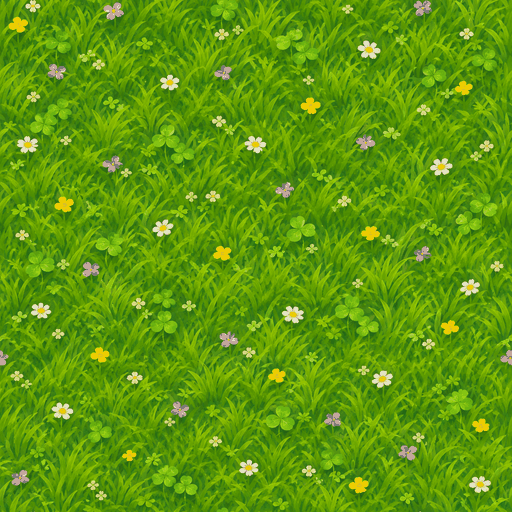
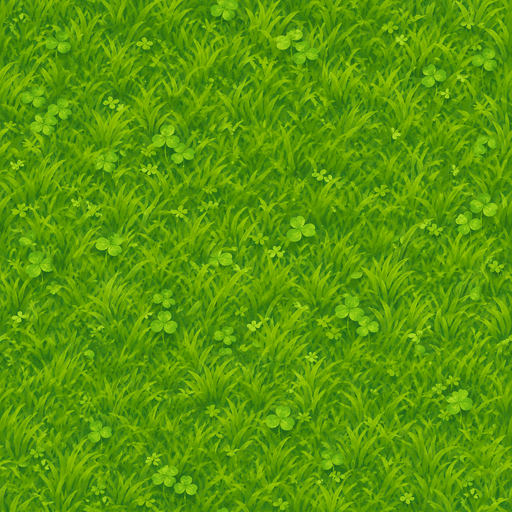
0.18.0: живая земля — проплешины, тропинки, пятна травы, цветы кучками, пашни с забором; тени картинок у основания
Claude-Session: https://claude.ai/code/session_01U2ApNPNzUjRVpvnMrknfAx

diff --git a/src/main.ts b/src/main.ts
@@ -11,8 +11,9 @@ import { settings, openMenu, closeMenu, openOver } from "./menu";
 import { startRun } from "./scores";
 import { STORY_W, STORY_H, GATES, CAMPS, START, EXIT_Y, GROUPS, WEAPON_CRATES, CH, CHAPTERS, SEGS, LANE, TUNNEL_Y, setChapter, loadStory, saveStory, loadHero, saveHero, type StorySave } from "./story";
 import { makeSliceProps, SLICE_INFO } from "./propVox";
-import { loadGroundFiles, makeGround, HAS_GRASS } from "./groundArt";
+import { loadGroundFiles, makeGround, makeGroundPatches, HAS_GRASS } from "./groundArt";
 import { loadArtFiles, objArt, HOUSE_NAMES, ART_K, OBJ_K, BUILD_NAMES, buildK } from "./artFiles";
+const BUILD_K_SMALL = (n: string) => buildK(n) !== ART_K;
 import { HUD_ART, HUD_FILE, loadHudFiles, makeHudArt, type HudArt } from "./hudArt";
 import { PROP_ART, loadPropFiles, makePropArt, type PropArt } from "./propArt";
 import { buildHouse, hull, inHouse, wDist, wLocal, wWorld, type House, type WallBox } from "./house";
@@ -24,8 +25,11 @@ let W = 3000, H = 3000; // размер мира, px (в сюжете — дли
 /** в сюжете не ставим деревья и камни на заслоны, в лагеря и у ящиков с оружием */
 /** туннель: скала по бокам прохода (внутрь не ставим ничего) */
 const inRock = (x: number, y: number, r = 0) => !!LANE && y < TUNNEL_Y + r && (x < LANE[0] + r || x > LANE[1] - r);
+/** пашни фермы: на них ничего не ставим (вокруг — заборчик) */
+let FIELDS: { x: number; y: number; w: number; h: number }[] = [];
+const inField = (x: number, y: number, r: number) => FIELDS.some((f) => x > f.x - r - 34 && x < f.x + f.w + r + 34 && y > f.y - r - 40 && y < f.y + f.h + r + 30);
 function storyFree(x: number, y: number, r: number) {
-  if (inRock(x, y, r + 10)) return false;
+  if (inRock(x, y, r + 10) || inField(x, y, r)) return false;
   if (GATES.some((g) => Math.abs(y - g) < r + 70)) return false;
   if (CAMPS.some((c) => Math.hypot(x - c.x, y - c.y) < r + 170)) return false;
   if (WEAPON_CRATES.some((c) => Math.hypot(x - c.x, y - c.y) < r + 90)) return false;
@@ -569,6 +573,7 @@ class Game extends Phaser.Scene {
   walls: WallBox[] = [];
   /** тени нарисованных построек и машин: картинка и сплющенность силуэта */
   artSh: [Phaser.GameObjects.Image, number][] = [];
+  yards: { x: number; y: number; w: number; h: number; path: boolean }[] = [];
   bullets: Bullet[] = [];
   bg!: Phaser.GameObjects.Graphics;
   aimG!: Phaser.GameObjects.Graphics;
@@ -644,6 +649,7 @@ class Game extends Phaser.Scene {
     makePropArt(this);
     SV = makeSliceProps(this);
     makeGround(this);
+    makeGroundPatches(this);
     this.enemies = []; this.obs = []; this.artSh = []; this.bullets = []; this.gibs = []; this.splats = []; this.spawnQ = []; this.waveT = 1.5; this.px = W / 2; this.py = H / 2;
     makeStack(this, "hero_body", PAL_HERO, "body");
     makeStack(this, "hero_head", PAL_HERO, "head");
@@ -1208,6 +1214,7 @@ class Game extends Phaser.Scene {
     /** доли: дерево / камень / сухое дерево */
     const MIX: Record<string, [number, number]> = { waste: [0.2, 0.75], junk: [0.15, 0.4], tunnel: [0.5, 0.9], farm: [0.45, 0.85], road: [0.4, 0.8], town: [0.25, 0.55], factory: [0.15, 0.7], dam: [0.35, 0.9] };
     const rnd = new Phaser.Math.RandomDataGenerator(["zombika"]);
+    FIELDS = [];
     if (S.story) this.themeGround(th, rnd);
     // полуразрушенный дом недалеко от старта
     const st = S.story ? START : { x: W / 2, y: H / 2 };
@@ -1217,6 +1224,8 @@ class Game extends Phaser.Scene {
     const free = (x: number, y: number, r: number) =>
       Math.hypot(x - st.x, y - st.y) > 220 && (!S.story || storyFree(x, y, r)) && this.obs.every((o) => Math.hypot(o.x - x, o.y - y) > o.r + r + 40) &&
       !(x > hs.bx0 - r - 40 && x < hs.bx1 + r + 40 && y > hs.by0 - r - 50 && y < hs.by1 + r + 30);
+    /** дворы: дома, постройки, костры — под ними проплешина земли, к ним ведут тропинки */
+    const yards = this.yards = [{ x: hs.cx, y: hs.by1 + 10, w: hs.bx1 - hs.bx0 + 60, h: 90, path: true as boolean }];
     const place = (key: string, x: number, y: number, size: number, r: number, canopy: number) => {
       const img = this.add.image(x, y, key).setDisplaySize(size, size).setDepth(y);
       // дерево нарисовано «вид сверху-сбоку»: ставим картинку основанием ствола в точку (x, y)
@@ -1235,6 +1244,7 @@ class Game extends Phaser.Scene {
         if (!free(x, y, Math.max(w, h) * 0.45)) continue;
         const im = this.add.image(x, y + h * 0.25, "hs_" + name).setDisplaySize(w, h).setOrigin(0.5, 0.85).setDepth(y + h * 0.15);
         this.artSh.push([im, 0.55]);
+        yards.push({ x, y: y + h * 0.12, w: w * 1.05, h: h * 0.6, path: true });
         const p: Prop = { id: 5000 + n, kind: "deco", x, y, hp: 999, img: im, dead: false }; this.props.push(p);
         p.wall = { cx: x, cy: y, ex: w * 0.34, ey: h * 0.26, c: 1, s: 0, h: 40, art: true, pts: [[-1, -1], [1, -1], [1, 1], [-1, 1]].map(([u, v]) => ({ x: x + u * w * 0.34, y: y + v * h * 0.26 })) };
         this.walls.push(p.wall);
@@ -1268,6 +1278,7 @@ class Game extends Phaser.Scene {
         const im = this.add.image(x, y, "bd_" + name).setDisplaySize(w, h).setFlipX(flip);
         const p: Prop = { id: 6000 + n, kind: "deco", x, y, hp: 999, img: im, dead: false }; this.props.push(p);
         if (flat) { im.setDepth(-9); n++; continue; }
+        yards.push({ x, y: y + h * (tall ? 0.02 : 0.12), w: w * (tall ? 1.6 : 1.05), h: h * (tall ? 0.35 : 0.6), path: !BUILD_K_SMALL(name) });
         if (tall) {
           // высокое (труба, вышка, бак): основание — внизу картинки, препятствие — кружок
           im.setOrigin(0.5, 0.9).setDepth(y);
@@ -1315,6 +1326,97 @@ class Game extends Phaser.Scene {
   }
 
   /** земля главы поверх травы: дорога, площадь, цех, плотина, поля */
+  /** пашня с неровным краем: узор t_farm внутри извилистого контура, по краю — бровка и травинки */
+  fieldImage(i: number, x: number, y: number, w: number, h: number, rnd: Phaser.Math.RandomDataGenerator) {
+    const m = 16, key = "field_" + i;
+    if (this.textures.exists(key)) this.textures.remove(key);
+    const cv = document.createElement("canvas"); cv.width = w + m * 2; cv.height = h + m * 2;
+    const c = cv.getContext("2d")!;
+    // контур: точки по скруглённому прямоугольнику, сдвинутые наружу/внутрь плавным шумом
+    const pts: [number, number][] = [], n = Math.round((w + h) / 9), rr = Math.min(w, h) * 0.22, ph = [rnd.realInRange(0, 9), rnd.realInRange(0, 9)];
+    for (let k = 0; k < n; k++) {
+      const t = (k / n) * 2 * (w + h);
+      let px: number, py: number, nx: number, ny: number;
+      if (t < w) { px = t; py = 0; nx = 0; ny = -1; } else if (t < w + h) { px = w; py = t - w; nx = 1; ny = 0; } else if (t < 2 * w + h) { px = 2 * w + h - t; py = h; nx = 0; ny = 1; } else { px = 0; py = 2 * (w + h) - t; nx = -1; ny = 0; }
+      // скругление углов: подтягиваем к центру скругления
+      const cxr = Math.min(Math.max(px, rr), w - rr), cyr = Math.min(Math.max(py, rr), h - rr), dx = px - cxr, dy = py - cyr, d = Math.hypot(dx, dy);
+      if (d > rr) { px = cxr + (dx / d) * rr; py = cyr + (dy / d) * rr; }
+      const wob = Math.sin(t * 0.021 + ph[0]) * 7 + Math.sin(t * 0.067 + ph[1]) * 3.5 + rnd.realInRange(-1.5, 1.5);
+      pts.push([m + px + nx * wob, m + py + ny * wob]);
+    }
+    const path = () => { c.beginPath(); pts.forEach(([a, b], k) => (k ? c.lineTo(a, b) : c.moveTo(a, b))); c.closePath(); };
+    const src = this.textures.get("t_farm").getSourceImage() as CanvasImageSource & { width: number };
+    const pat = c.createPattern(src, "repeat")!;
+    const sc = 0.45 * (512 / Math.max(256, src.width as number)) * (src.width as number >= 512 ? 1 : 2);
+    pat.setTransform(new DOMMatrix().scale(sc));
+    path(); c.fillStyle = pat; c.fill();
+    // бровка: тёмная полоса по краю внутри
+    c.save(); path(); c.clip(); c.lineWidth = 10; c.strokeStyle = "rgba(60,40,20,0.35)"; path(); c.stroke(); c.restore();
+    // травинки, налезающие на край
+    c.strokeStyle = "rgba(70,120,30,0.85)"; c.lineWidth = 1.5;
+    for (let k = 0; k < pts.length; k += 1) for (let j = 0; j < 2; j++) {
+      const [a, b] = pts[k], ox = rnd.realInRange(-4, 4), oy = rnd.realInRange(-4, 4);
+      c.beginPath(); c.moveTo(a + ox, b + oy); c.lineTo(a + ox + rnd.realInRange(-3, 3), b + oy - rnd.realInRange(4, 9)); c.stroke();
+    }
+    this.textures.addCanvas(key, cv);
+    this.add.image(x - m, y - m, key).setOrigin(0).setDepth(-9.6);
+  }
+  /** живая земля: проплешины под дворами, кривые тропинки, пятна тёмной/сухой травы, цветы кучками */
+  groundPatches(th: string, yards: { x: number; y: number; w: number; h: number; path: boolean }[], rnd: Phaser.Math.RandomDataGenerator) {
+    if (th === "tunnel") return;
+    const tint = S.story ? CHAPTERS[CH].tint : 0xffffff;
+    const blob = (key: string, x: number, y: number, w: number, h: number, depth = -9.9) =>
+      this.add.image(x, y, key).setDisplaySize(w, h).setRotation(rnd.realInRange(-0.3, 0.3)).setFlipX(rnd.frac() < 0.5).setDepth(depth).setTint(tint);
+    // под домами и кострами — вытоптанная земля
+    for (const y of yards) blob("gp_dirt" + rnd.between(0, 3), y.x + rnd.between(-8, 8), y.y, y.w * 1.3, y.h * 1.5);
+    // тропинки: плавная кривая (Безье со смещёнными в стороны опорами), три слоя — тень края, земля, светлая середина
+    const g = this.add.graphics().setDepth(-9.85);
+    const trail = (pts: { x: number; y: number }[], wid: number) => {
+      for (const [k, col, a] of [[1.5, 0x4a3a20, 0.16], [1.0, 0x7a5e3a, 0.6], [0.5, 0x9c7e54, 0.45]] as const) {
+        g.lineStyle(wid * k, col, a).strokePoints(pts, false);
+      }
+      // камешки по тропе
+      g.fillStyle(0x9a9284, 0.8);
+      for (let i = 0; i < pts.length; i += 3) if (rnd.frac() < 0.5) g.fillEllipse(pts[i].x + rnd.between(-wid / 3, wid / 3), pts[i].y + rnd.between(-wid / 3, wid / 3), rnd.between(2, 5), rnd.between(2, 4));
+    };
+    const curve = (ax: number, ay: number, bx: number, by: number) => {
+      const dx = bx - ax, dy = by - ay, L = Math.hypot(dx, dy), nx = -dy / L, ny = dx / L;
+      const o1 = rnd.realInRange(-0.35, 0.35) * L, o2 = rnd.realInRange(-0.35, 0.35) * L;
+      const c1 = { x: ax + dx * 0.33 + nx * o1, y: ay + dy * 0.33 + ny * o1 }, c2 = { x: ax + dx * 0.66 + nx * o2, y: ay + dy * 0.66 + ny * o2 };
+      const n = Math.max(6, Math.round(L / 14)), pts: { x: number; y: number }[] = [];
+      for (let i = 0; i <= n; i++) {
+        const t = i / n, u = 1 - t;
+        pts.push({ x: u * u * u * ax + 3 * u * u * t * c1.x + 3 * u * t * t * c2.x + t * t * t * bx, y: u * u * u * ay + 3 * u * u * t * c1.y + 3 * u * t * t * c2.y + t * t * t * by });
+      }
+      return pts;
+    };
+    const doors = yards.filter((y) => y.path).map((y) => ({ x: y.x, y: y.y + y.h * 0.45 }));
+    if (S.story) {
+      // главная тропа вдоль полосы (на шоссе и в городе её закрывает асфальт)
+      const ph = rnd.realInRange(0, 9), main: { x: number; y: number }[] = [];
+      const mx = (y: number) => W / 2 + Math.sin(y * 0.0021 + ph) * 110 + Math.sin(y * 0.0061 + ph * 2) * 45;
+      for (let y = H; y >= 0; y -= 24) main.push({ x: mx(y), y });
+      trail(main, 44);
+      for (const d of doors) { const ty = d.y + rnd.between(60, 220); trail(curve(d.x, d.y, mx(ty), ty), 24); }
+    } else {
+      // «волны»: каждый двор — к ближайшему соседу, без повторов
+      const done = new Set<string>();
+      doors.forEach((d, i) => {
+        let best = -1, bd = 1e9;
+        doors.forEach((e, j) => { const q = Math.hypot(e.x - d.x, e.y - d.y); if (j !== i && q < bd) { bd = q; best = j; } });
+        const key = [i, best].sort().join();
+        if (best >= 0 && !done.has(key) && bd < 1400) { done.add(key); trail(curve(d.x, d.y, doors[best].x, doors[best].y), 26); }
+      });
+    }
+    // пятна по всей карте: голая земля, тёмная и сухая трава, цветы кучками (не на пашнях)
+    const area = (W * H) / 250000;
+    const spots: [string, number, number, number][] = [["gp_dirt", 4, 0.22, 140], ["gp_dark", 2, 0.4, 260], ["gp_dry", 2, 0.35, 240], ["gp_flow", 3, 0.5, 110]];
+    for (const [key, nv, k, sz] of spots) for (let i = 0; i < Math.round(area * k); i++) {
+      const x = rnd.between(60, W - 60), y = rnd.between(60, H - 60), s = sz * rnd.realInRange(0.6, 1.5);
+      if (inField(x, y, s * 0.4)) continue;
+      blob(key + rnd.between(0, nv - 1), x, y, s, s * rnd.realInRange(0.6, 0.9), key === "gp_flow" ? -9.5 : -9.9);
+    }
+  }
   themeGround(th: string, rnd: Phaser.Math.RandomDataGenerator) {
     const band = (key: string, x: number, w: number, y = 0, h = H, sc = 0.5) => this.add.tileSprite(x, y, w, h, key).setOrigin(0).setTileScale(sc).setDepth(-9.6);
     const g = this.add.graphics().setDepth(-9.5);
@@ -1323,8 +1425,8 @@ class Game extends Phaser.Scene {
       // поля по сторонам от тропы
       for (let y = 500; y < H - 700; y += rnd.between(500, 800)) {
         const left = rnd.frac() < 0.5, w = rnd.between(280, 420), h = rnd.between(220, 360), x = left ? rnd.between(200, 330) : W - rnd.between(200, 330) - w;
-        band("t_farm", x, w, y, h, 0.45);
-        g.lineStyle(3, 0x5a4024, 0.5).strokeRect(x, y, w, h);
+        FIELDS.push({ x, y, w, h });
+        this.fieldImage(FIELDS.length - 1, x, y, w, h, rnd);
       }
     } else if (th === "road") {
       band("t_asphalt", cx - 270, 540);
@@ -1475,6 +1577,7 @@ class Game extends Phaser.Scene {
       ob(p, 14, { low: true });
       p.light = { dx: 0, dy: -4, r: 210, col: 0xff8a30, a: 0.75, flick: 0.25, night: false };
       p.fire = this.flames(x, y - 6, 1);
+      this.yards.push({ x, y: y + 4, w: 130, h: 100, path: false });
       for (let i = 0; i < 3; i++) { const a = (i / 3) * TAU + 0.5; const lx = x + Math.cos(a) * 44, ly = y + Math.sin(a) * 30; if (free(lx, ly, 10)) { const lp = add("fence", lx, ly, 99, this.add.image(lx, ly, "prop_fence").setDisplaySize(40, 12).setRotation(a + Math.PI / 2).setDepth(-4)); void lp; } }
     };
     for (let n = 0, tries = 0; n < 4 && tries < 300; tries++) {
@@ -1482,6 +1585,7 @@ class Game extends Phaser.Scene {
       if (!free(x, y, 60)) continue;
       fire(x, y); n++;
     }
+    this.groundPatches(S.story ? CHAPTERS[CH].theme : "farm", this.yards, rnd);
     // фонарные столбы: у дома и вдоль старой дороги через карту
     const lamp = (x: number, y: number, broken: boolean) => {
       const p = add("lamp", x, y, 99, img("lamp", x, y, 0.95));
@@ -1515,6 +1619,34 @@ class Game extends Phaser.Scene {
         this.walls.push(p.wall);
       }
       n++;
+    }
+    // заборчик вокруг пашен: пролёты по краю, пара дыр-проходов
+    for (const f of FIELDS) {
+      const seg = (fx: number, fy: number, a: number) => {
+        const im = this.add.image(fx, fy, "prop_fence").setDisplaySize(64, 20).setRotation(a).setOrigin(0.5, 0.6).setDepth(fy);
+        const p = add("fence", fx, fy, 99, im);
+        p.wall = box(fx, fy, 30, 3, a, 12); this.walls.push(p.wall);
+      };
+      const x0 = f.x - 14, x1 = f.x + f.w + 14, y0 = f.y - 16, y1 = f.y + f.h + 12;
+      const nx = Math.max(2, Math.round((x1 - x0) / 62)), ny = Math.max(2, Math.round((y1 - y0) / 62));
+      const gaps = new Set([rnd.between(0, 2 * (nx + ny) - 1), rnd.between(0, 2 * (nx + ny) - 1)]);
+      let k = 0;
+      for (let i = 0; i < nx; i++, k++) if (!gaps.has(k)) seg(x0 + (i + 0.5) * (x1 - x0) / nx, y0, 0);
+      for (let i = 0; i < nx; i++, k++) if (!gaps.has(k)) seg(x0 + (i + 0.5) * (x1 - x0) / nx, y1, 0);
+      for (let i = 0; i < ny; i++, k++) if (!gaps.has(k)) seg(x0, y0 + (i + 0.5) * (y1 - y0) / ny, Math.PI / 2);
+      for (let i = 0; i < ny; i++, k++) if (!gaps.has(k)) seg(x1, y0 + (i + 0.5) * (y1 - y0) / ny, Math.PI / 2);
+      // пугало посреди пашни (иногда два) и часто — брошенный трактор
+      const hasTr = BUILD_NAMES.has("tractor") && rnd.frac() < 0.65;
+      const sx = hasTr ? (rnd.frac() < 0.5 ? 0.25 : 0.75) : rnd.realInRange(0.3, 0.7);
+      for (let i = 0, ns = rnd.frac() < 0.3 ? 2 : 1; i < ns; i++) deco("scarecrow", f.x + f.w * (i ? 1 - sx : sx), f.y + f.h * rnd.realInRange(0.35, 0.75), 0);
+      if (hasTr) {
+        const tex = this.textures.get("bd_tractor").getSourceImage(), k = buildK("tractor"), w = tex.width / k, h = tex.height / k;
+        const tx = f.x + f.w * (1 - sx), ty = f.y + f.h * rnd.realInRange(0.4, 0.6);
+        const im = this.add.image(tx, ty, "bd_tractor").setDisplaySize(w, h).setFlipX(rnd.frac() < 0.5).setOrigin(0.5, 0.85).setY(ty + h * 0.25).setDepth(ty + h * 0.15);
+        this.artSh.push([im, 0.5]);
+        const p = add("deco", tx, ty, 999, im);
+        p.wall = box(tx, ty, w * 0.36, h * 0.24, 0, 30); p.wall.art = true; this.walls.push(p.wall);
+      }
     }
     // предупреждающие таблички
     for (let n = 0, tries = 0; n < 5 && tries < 200; tries++) {

diff --git a/src/groundArt.ts b/src/groundArt.ts
@@ -123,3 +123,84 @@ export function makeGround(scene: Phaser.Scene) {
     scene.textures.addCanvas(n, cv);
   });
 }
+
+// ---- пятна на траве: проплешины земли (под домами и кострами, просто так), тёмная/сухая трава, кучки цветов ----
+const P = 256;
+/** неровная мягкая клякса: сумма кругов, затем порог с шумом по краю (альфа 0…1 на пиксель) */
+function blobMask(r: () => number, lumpy: number): Float32Array {
+  const cv = document.createElement("canvas"); cv.width = cv.height = P;
+  const c = cv.getContext("2d")!;
+  const n = 7 + Math.floor(r() * 6);
+  for (let i = 0; i < n; i++) {
+    const a = r() * Math.PI * 2, d = r() * P * 0.2, x = P / 2 + Math.cos(a) * d, y = P / 2 + Math.sin(a) * d * 0.8, rad = P * (0.16 + r() * 0.16);
+    const g = c.createRadialGradient(x, y, 0, x, y, rad);
+    g.addColorStop(0, "rgba(255,255,255,0.9)"); g.addColorStop(1, "rgba(255,255,255,0)");
+    c.fillStyle = g; c.fillRect(0, 0, P, P);
+  }
+  const src = c.getImageData(0, 0, P, P).data, m = new Float32Array(P * P);
+  // шум для рваного края: несколько синусов (дёшево и без швов не нужно — клякса одна)
+  const ph = [r() * 9, r() * 9, r() * 9, r() * 9];
+  for (let y = 0; y < P; y++) for (let x = 0; x < P; x++) {
+    const nz = (Math.sin(x * 0.11 + ph[0]) * Math.sin(y * 0.13 + ph[1]) + Math.sin(x * 0.37 + y * 0.29 + ph[2]) * 0.5 + Math.sin(x * 0.9 - y * 0.7 + ph[3]) * 0.25) * lumpy;
+    const v = src[(y * P + x) * 4 + 3] / 255 + nz * 0.12 + (r() - 0.5) * 0.06;
+    const t = Math.min(1, Math.max(0, (v - 0.32) / 0.22));
+    m[y * P + x] = t * t * (3 - 2 * t);
+  }
+  return m;
+}
+function applyMask(cv: HTMLCanvasElement, m: Float32Array, k = 1) {
+  const c = cv.getContext("2d")!, d = c.getImageData(0, 0, P, P);
+  for (let i = 0; i < P * P; i++) d.data[i * 4 + 3] = Math.round(d.data[i * 4 + 3] * m[i] * k);
+  c.putImageData(d, 0, 0);
+}
+function dirtCanvas(r: () => number) {
+  const cv = document.createElement("canvas"); cv.width = cv.height = P;
+  const c = cv.getContext("2d")!;
+  c.fillStyle = "#8b6b46"; c.fillRect(0, 0, P, P);
+  // пятна потемнее/посветлее, зерно, камешки, травинки
+  for (let i = 0; i < 26; i++) { c.fillStyle = r() < 0.5 ? "#6e5236" : "#a08058"; c.globalAlpha = 0.18 + r() * 0.2; c.beginPath(); c.ellipse(r() * P, r() * P, 10 + r() * 30, 6 + r() * 18, r() * 3, 0, Math.PI * 2); c.fill(); }
+  for (let i = 0; i < 1400; i++) { c.fillStyle = r() < 0.5 ? "#5a4230" : "#b8986a"; c.globalAlpha = 0.15 + r() * 0.3; const s = 1 + r() * 2.2; c.fillRect(r() * P, r() * P, s, s); }
+  for (let i = 0; i < 40; i++) {
+    const x = r() * P, y = r() * P, rx = 1.5 + r() * 3.5;
+    c.globalAlpha = 0.5; c.fillStyle = "#4a3828"; c.beginPath(); c.ellipse(x + 1, y + 1.2, rx, rx * 0.7, 0, 0, Math.PI * 2); c.fill();
+    c.globalAlpha = 0.9; c.fillStyle = r() < 0.5 ? "#a39a8c" : "#8c8478"; c.beginPath(); c.ellipse(x, y, rx, rx * 0.7, 0, 0, Math.PI * 2); c.fill();
+  }
+  c.strokeStyle = "#5f8a2e"; c.lineWidth = 1.4;
+  for (let i = 0; i < 50; i++) { const x = r() * P, y = r() * P; c.globalAlpha = 0.6; for (let j = 0; j < 3; j++) { c.beginPath(); c.moveTo(x + j * 2, y); c.lineTo(x + j * 2 + (r() - 0.5) * 6, y - 4 - r() * 6); c.stroke(); } }
+  c.globalAlpha = 1;
+  return cv;
+}
+function tintCanvas(r: () => number, col: string, spots: string) {
+  const cv = document.createElement("canvas"); cv.width = cv.height = P;
+  const c = cv.getContext("2d")!;
+  c.fillStyle = col; c.fillRect(0, 0, P, P);
+  for (let i = 0; i < 300; i++) { c.fillStyle = spots; c.globalAlpha = 0.3 + r() * 0.4; c.fillRect(r() * P, r() * P, 2 + r() * 4, 1 + r() * 2); }
+  c.globalAlpha = 1;
+  return cv;
+}
+function flowersCanvas(r: () => number) {
+  const cv = document.createElement("canvas"); cv.width = cv.height = P;
+  const c = cv.getContext("2d")!;
+  const cols = [["#ffffff", "#f2c230"], ["#f6d23a", "#d08a1a"], ["#b89ae0", "#f4e070"]];
+  const main = Math.floor(r() * 3), n = 14 + Math.floor(r() * 18);
+  for (let i = 0; i < n; i++) {
+    // гуще к середине
+    const a = r() * Math.PI * 2, d = Math.pow(r(), 1.6) * P * 0.36, x = P / 2 + Math.cos(a) * d, y = P / 2 + Math.sin(a) * d * 0.75;
+    const [pc, cc] = cols[r() < 0.75 ? main : Math.floor(r() * 3)], s = 3 + r() * 2.5;
+    c.globalAlpha = 0.35; c.fillStyle = "#1f4a12"; c.beginPath(); c.ellipse(x + 1.5, y + 2, s * 1.4, s, 0, 0, Math.PI * 2); c.fill();
+    c.globalAlpha = 1; c.fillStyle = pc;
+    for (let k = 0; k < 5; k++) { const t = (k / 5) * Math.PI * 2 + i; c.beginPath(); c.ellipse(x + Math.cos(t) * s * 0.75, y + Math.sin(t) * s * 0.6, s * 0.6, s * 0.48, t, 0, Math.PI * 2); c.fill(); }
+    c.fillStyle = cc; c.beginPath(); c.arc(x, y, s * 0.42, 0, Math.PI * 2); c.fill();
+  }
+  return cv;
+}
+/** текстуры пятен: gp_dirt0..3, gp_dark0..1, gp_dry0..1, gp_flow0..2 */
+export function makeGroundPatches(scene: Phaser.Scene) {
+  if (scene.textures.exists("gp_dirt0")) return;
+  const r = rng(4242);
+  const add = (key: string, cv: HTMLCanvasElement, m: Float32Array | null, k = 1) => { if (m) applyMask(cv, m, k); scene.textures.addCanvas(key, cv); };
+  for (let i = 0; i < 4; i++) add("gp_dirt" + i, dirtCanvas(r), blobMask(r, 1.4));
+  for (let i = 0; i < 2; i++) add("gp_dark" + i, tintCanvas(r, "#1d4a14", "#0f300a"), blobMask(r, 0.8), 0.32);
+  for (let i = 0; i < 2; i++) add("gp_dry" + i, tintCanvas(r, "#b8a848", "#8a7a30"), blobMask(r, 1), 0.38);
+  for (let i = 0; i < 3; i++) add("gp_flow" + i, flowersCanvas(r), null);
+}

diff --git a/src/light.ts b/src/light.ts
@@ -237,10 +237,12 @@ export class Lighting {
     this.casters = this.casters.filter((c) => c.img !== img);
   }
   addTree(img: Phaser.GameObjects.Image, sq = 1) {
-    // картинка перевёрнута по вертикали (верхушка уходит «вниз» от ствола), а сдвиг/наклон задаёт контейнер
-    const sh = this.scene.make.image({ key: img.texture.key }, false).setOrigin(img.originX, 1 - img.originY)
+    // картинка перевёрнута по вертикали (верхушка уходит «вниз» от ствола), а сдвиг/наклон задаёт контейнер.
+    // У нарисованных построек/предметов тень крепим к самому нижнему непрозрачному ряду (колёса, фундамент), а не к точке опоры
+    const b = artBase(img), oy = b ?? img.originY;
+    const sh = this.scene.make.image({ key: img.texture.key }, false).setOrigin(img.originX, 1 - oy)
       .setDisplaySize(img.displayWidth, img.displayHeight * sq).setFlipY(true).setFlipX(img.flipX).setTintFill(0x000000);
-    const c = this.scene.add.container(img.x, img.y, [sh]).setDepth(-3.6);
+    const c = this.scene.add.container(img.x, img.y + (oy - img.originY) * img.displayHeight, [sh]).setDepth(-3.6);
     this.trees.push({ img, c, sh });
   }
 
@@ -528,4 +530,26 @@ export class Lighting {
     const t = this.sun.t;
     return tr(t < 0.06 || t > 0.95 ? "dawn" : t < 0.44 ? "day" : t < 0.56 ? "dusk" : "night");
   }
+}
+
+/** нижний край нарисованной картинки (доля высоты): последний ряд, где заметно много непрозрачных пикселей */
+const BASE = new Map<string, number | null>();
+function artBase(img: Phaser.GameObjects.Image): number | null {
+  const key = img.texture.key;
+  if (!/^(ob|bd|hs)_/.test(key)) return null;
+  if (BASE.has(key)) return BASE.get(key)!;
+  let res: number | null = null;
+  try {
+    const src = img.texture.getSourceImage() as HTMLImageElement, w = src.width, h = src.height;
+    const cv = document.createElement("canvas"); cv.width = w; cv.height = h;
+    const c = cv.getContext("2d")!; c.drawImage(src, 0, 0);
+    const d = c.getImageData(0, 0, w, h).data;
+    for (let y = h - 1; y >= 0 && res === null; y--) {
+      let n = 0;
+      for (let x = 0; x < w; x++) if (d[(y * w + x) * 4 + 3] > 140) n++;
+      if (n > w * 0.04) res = (y + 1) / h;
+    }
+  } catch { res = null; }
+  BASE.set(key, res);
+  return res;
 }

diff --git a/README.md b/README.md
@@ -115,3 +115,4 @@
 - `src/heroStack.ts` — воксельная модель героя и палитры (герой, два вида зомби).
 - `public/sprites/` — картинки из LLM Survival.
 - `src/obj/`, `src/house/`, `src/build/`, `src/tiles/`, `src/props/`, `src/ui/` — картинки ChatGPT в стиле деревьев (машины, предметы, руины, постройки глав, земля, HUD). Файлы в 2 раза крупнее мира; исходники в полном размере — `art/gen/`. Какие постройки в какой главе — наборы `SETS` в `buildWorld` (main.ts). Тень у картинок — их силуэт по солнцу.
+- Живая земля (`groundPatches`, `fieldImage` в main.ts, `makeGroundPatches` в groundArt.ts): проплешины под домами и кострами, кривые тропинки к домам и главная тропа, пятна тёмной/сухой травы, цветы кучками; пашни с неровным краем и заборчиком, на пашнях только пугало и трактор. В `src/tiles/t_grass.png` цветы убраны.
